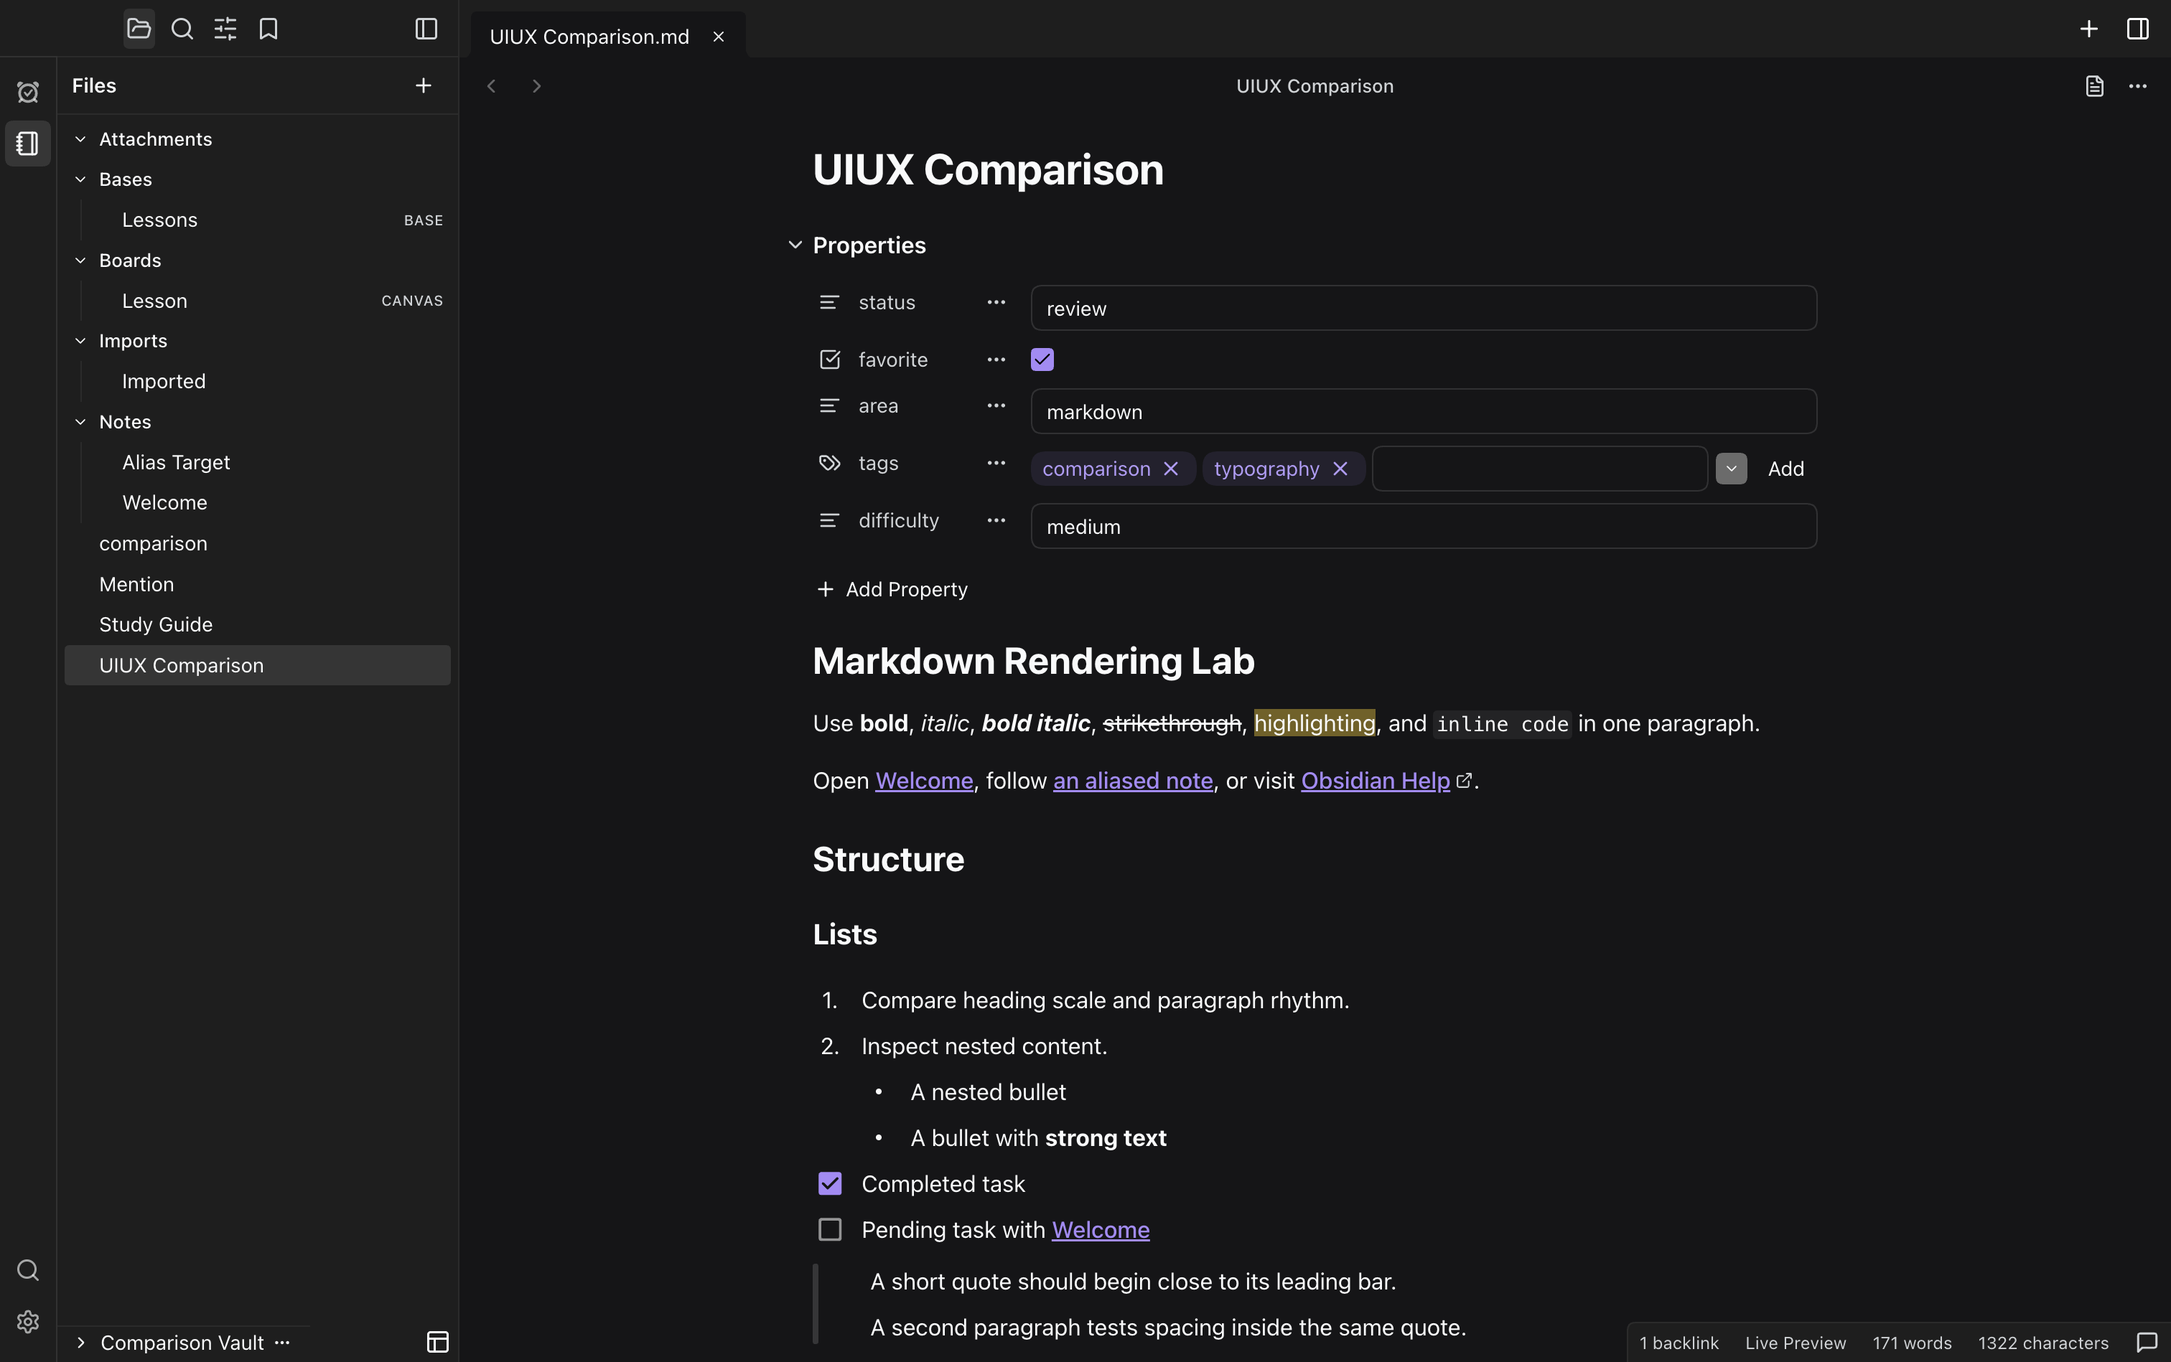
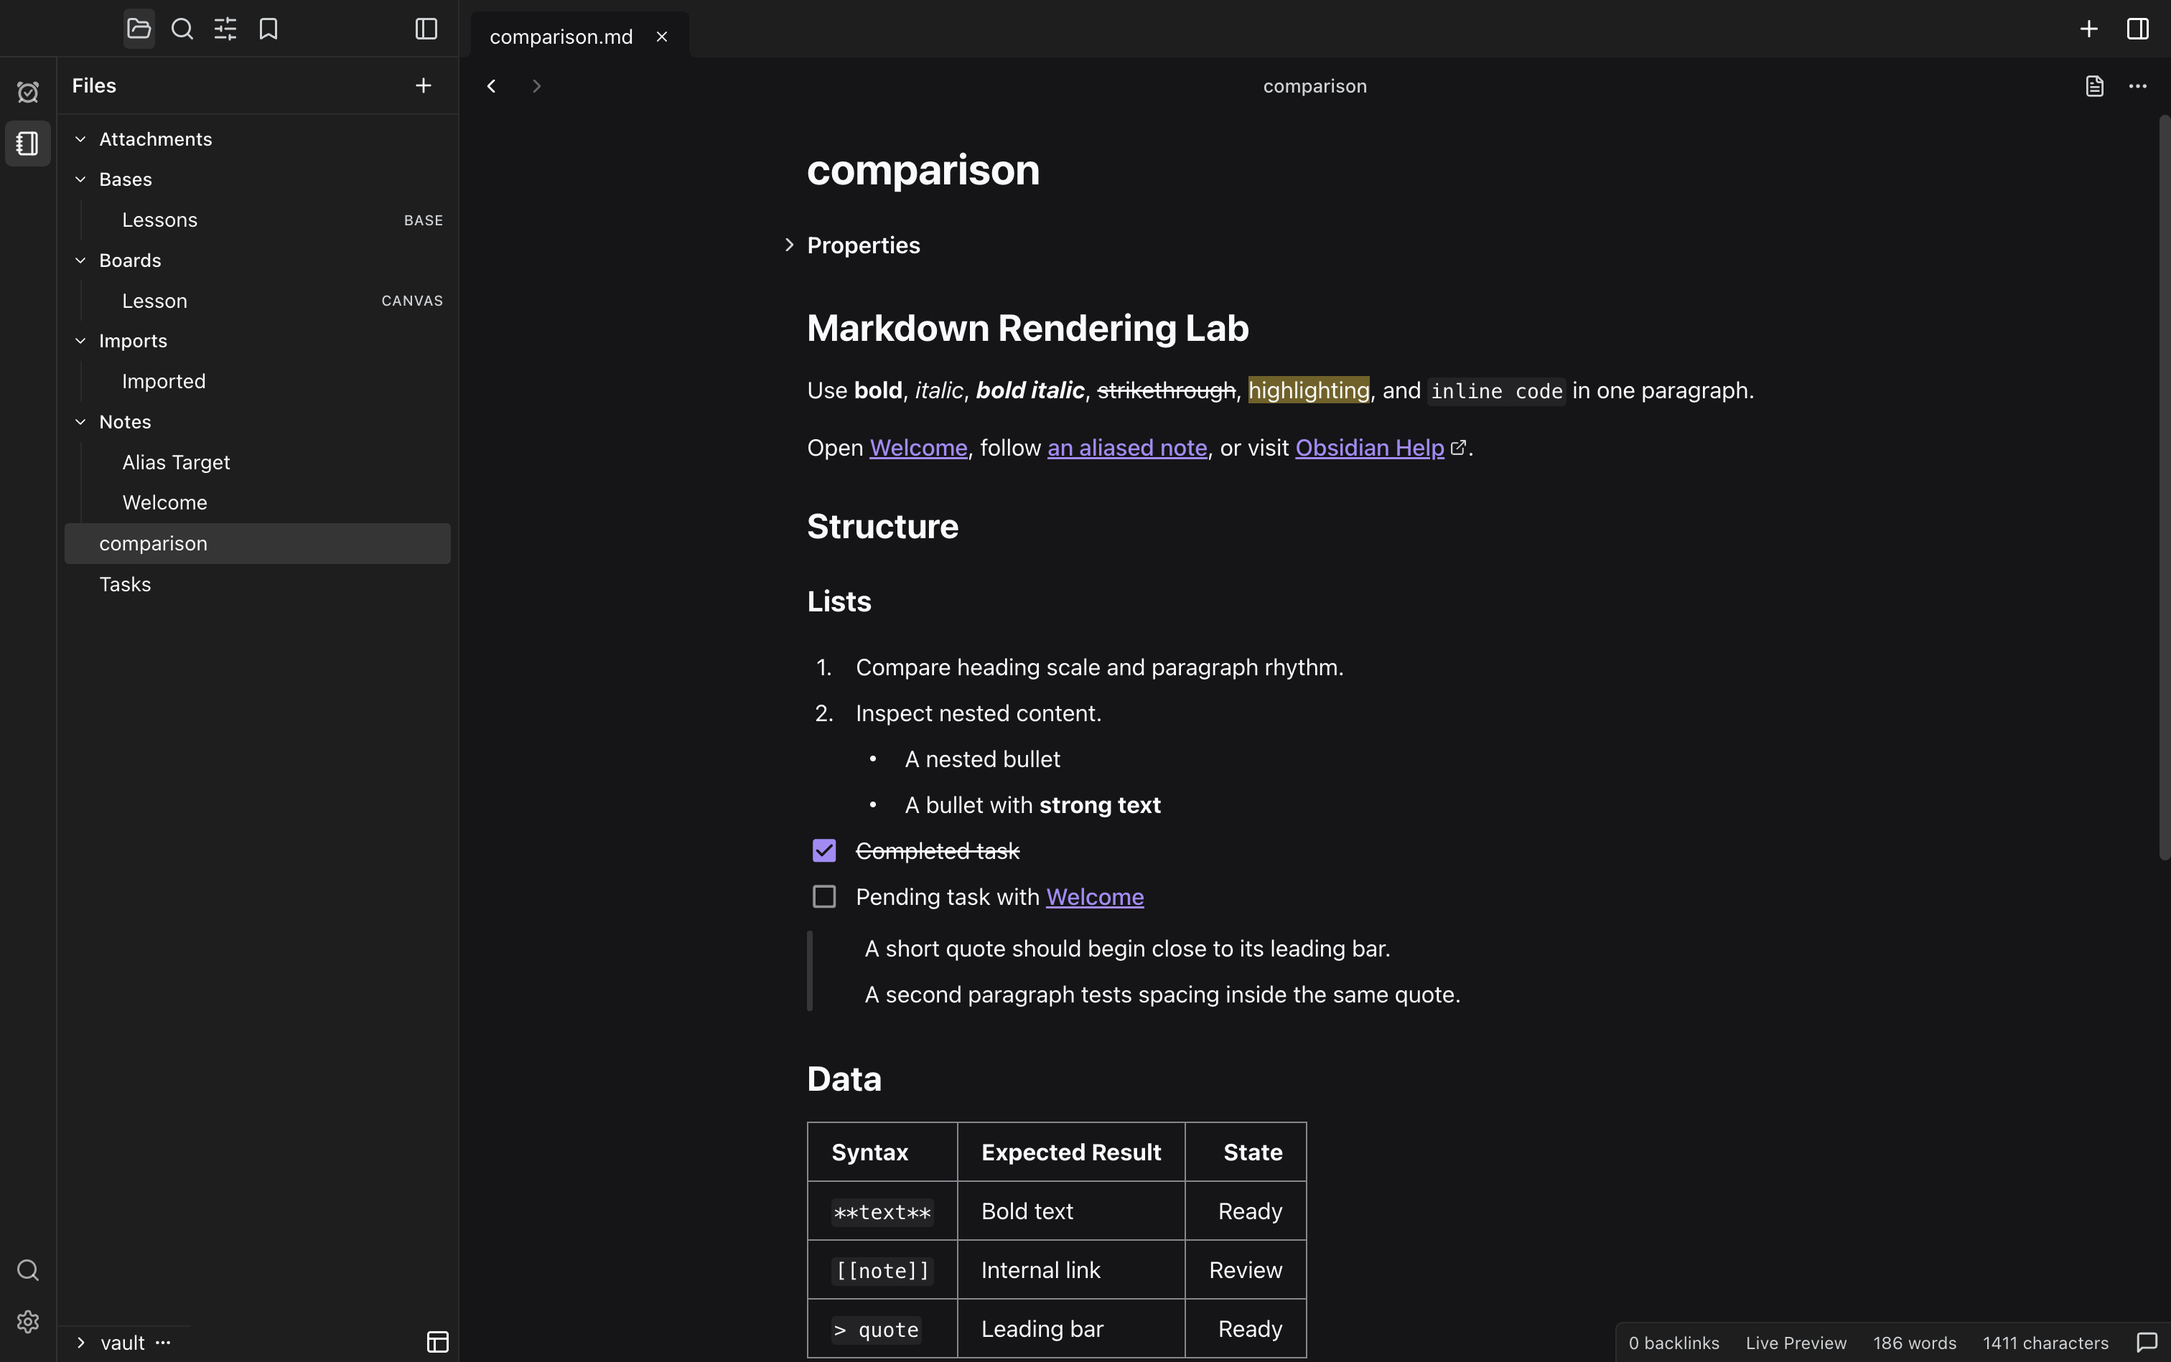
docs(tocktutor): refresh completed-task gallery screenshot

diff --git a/.agents/uiux/tocktutor/tocktutor.html b/.agents/uiux/tocktutor/tocktutor.html
@@ -154,9 +154,9 @@
     <div class="header-inner">
       <p class="eyebrow">Visual Design Audit · 61 Captures</p>
       <h1>TockTutor and Obsidian</h1>
-      <p class="intro">All 33 retained TockTutor screenshots were refreshed on October 3, 2026, using the existing source-built Desktop without rebuilding or changing app code. All 29 retained Obsidian references are unchanged; Obsidian was not launched. Eleven unreferenced screenshot files were removed. The supplemental Reader View shows its loaded article; Page View was captured only after loading finished. Earlier capture hashes and interaction checks remain historical evidence in the proof. Note-based surfaces use the shared <a href="comparison.md"><code>comparison.md</code></a> content. Older screenshots predate the filename change. The current TockTutor note menu shows 19 note-specific actions and the current filename; workspace and sidebar views remain accessible elsewhere; attachments use <code>Notes/Welcome.md</code>, and Base and Canvas use the same <a href="../../../plugins/tocktutor/parity/fixtures/vault/">parity fixture files</a>. Search uses <code>Markdown</code> in both apps. The assistant pair uses empty conversations beside the same note, with Claudian 2.3.0 in Obsidian. Product-specific controls and catalogs remain genuine, not fabricated matches. See the <a href="content-alignment.json">current capture proof and limitations</a>. Click an image for full resolution.</p>
+      <p class="intro">The earlier October 3, 2026 refresh replaced all 33 retained TockTutor screenshots using the existing source-built Desktop, without rebuilding or changing app code. The Live Preview image was then updated with the verified completed-task strikethrough capture. All 29 retained Obsidian references are unchanged; Obsidian was not launched. Eleven unreferenced screenshot files were removed. The supplemental Reader View shows its loaded article; Page View was captured only after loading finished. Earlier capture hashes and interaction checks remain historical evidence in the proof. Note-based surfaces use the shared <a href="comparison.md"><code>comparison.md</code></a> content. Older screenshots predate the filename change. The current TockTutor note menu shows 19 note-specific actions and the current filename; workspace and sidebar views remain accessible elsewhere; attachments use <code>Notes/Welcome.md</code>, and Base and Canvas use the same <a href="../../../plugins/tocktutor/parity/fixtures/vault/">parity fixture files</a>. Search uses <code>Markdown</code> in both apps. The assistant pair uses empty conversations beside the same note, with Claudian 2.3.0 in Obsidian. Product-specific controls and catalogs remain genuine, not fabricated matches. See the <a href="content-alignment.json">current capture proof and limitations</a>. Click an image for full resolution.</p>
       <p class="intro">September 29 additions: six source-built Desktop captures cover the image viewer, image resizing, Mermaid Reading and Live Preview, diagram editing, and imported property controls. These use separate <a href="migration-fixtures/Viewer.md">image-viewer</a>, <a href="migration-fixtures/Images.md">image-resizing</a>, <a href="migration-fixtures/Diagrams.md">diagram</a>, and <a href="migration-fixtures/Properties.md">property</a> fixtures; Image Viewer and Image Resizing pair the same Potala Palace photo; Diagram Editing and Imported Property Controls pair the same saved notes in TockTutor and installed Obsidian 1.13.7. The remaining two additions are TockTutor feature evidence, not matched Obsidian comparisons. See the <a href="../../../.beads/reports/2026-09-29-tocktutor-migration-review.md">migration review</a> and <a href="../../../.beads/reports/2026-09-30-tocktutor-image-alignment-and-diagram-reference.md">layout and diagram proof</a>, and <a href="../../../.beads/reports/2026-10-01-tocktutor-imported-properties-reference.md">imported property reference proof</a>. October 1 retake: Imported Property Controls now shows Properties beside the full-height note, with a fresh Obsidian comparison; the duplicate sidebar surface was removed. See the <a href="../../../.beads/reports/2026-10-01-tocktutor-imported-properties-retake.md">pair retake proof</a>.</p>
-      <p class="intro">Properties Editing Refresh: Surface 28 uses the shared <a href="comparison.md"><code>comparison.md</code></a> with nine properties and the unchanged Markdown body. Properties Layout Refresh: TockTutor has compact side-by-side rows and separate Properties and Assistant buttons in the titlebar. Titlebar Divider Refresh: both right-pane views now match the left sidebar's divider. Those earlier focused layout checks remain recorded separately; this screenshot-only refresh replaces all 33 retained TockTutor images and preserves all 29 Obsidian references. No Obsidian reinstall or update. Earlier note-facing pictures keep their original five-property version; this remains the canonical gallery.</p>
+      <p class="intro">Properties Editing Refresh: Surface 28 uses the shared <a href="comparison.md"><code>comparison.md</code></a> with nine properties and the unchanged Markdown body. Properties Layout Refresh: TockTutor has compact side-by-side rows and separate Properties and Assistant buttons in the titlebar. Titlebar Divider Refresh: both right-pane views now match the left sidebar's divider. Those earlier focused layout checks remain recorded separately; the earlier screenshot-only refresh replaced all 33 retained TockTutor images and preserved all 29 Obsidian references. No Obsidian reinstall or update. Earlier note-facing pictures keep their original five-property version; this remains the canonical gallery.</p>
       <div class="capture-standard">1512 × 949 CSS pixels · 2× scale · 3024 × 1898 output · Built-in Dark Theme · No Active Skin</div>
       <div class="legend" aria-label="Comparison legend">
         <span class="tt">TockTutor</span>
@@ -180,10 +180,11 @@
     </section>
 
     <section class="surface" id="live-preview">
-      <p class="section-number">Surface 02</p><h2>Live Preview</h2><p class="section-note">In-place editing with rendered Markdown context.</p>
+      <p class="section-number">Surface 02</p><h2>Live Preview</h2><p class="section-note">In-place editing with rendered Markdown context. The refreshed TockTutor view crosses out completed tasks and leaves pending tasks unchanged. It uses the nine-property <code>comparison.md</code> with Properties collapsed; the earlier Obsidian reference has the same Markdown body but its original filename and five properties.</p>
+      <p class="fixture-proof"><strong>Completed-Task Refresh:</strong> Reuses the verified source-built Desktop capture at 1512 × 949 CSS pixels and 2× scale, built-in dark theme, no active skin, and zero runtime errors. Only this TockTutor image changed; all other images and Obsidian references are unchanged. See the <a href="../../../.beads/reports/2026-10-03-tocktutor-completed-task/proof.json">completed-task verification</a> for checkbox, keyboard, nested-task, save/reopen, and eight-appearance checks. No app rebuild or recapture for this gallery update.</p>
       <div class="comparison">
-        <figure class="tocktutor"><figcaption><span class="caption-title">TockTutor · Live Preview</span><span class="badge">Current</span></figcaption><a class="screenshot-link" href="screenshots/tocktutor-editor-live-preview.png"><img src="screenshots/tocktutor-editor-live-preview.png" alt="TockTutor live preview editor"></a></figure>
-        <figure class="obsidian"><figcaption><span class="caption-title">Obsidian · Live Preview</span><span class="badge">Reference</span></figcaption><a class="screenshot-link" href="screenshots/obsidian-main-editor.png"><img src="screenshots/obsidian-main-editor.png" alt="Obsidian live preview editor"></a></figure>
+        <figure class="tocktutor"><figcaption><span class="caption-title">TockTutor · Live Preview</span><span class="badge">Current</span></figcaption><a class="screenshot-link" href="screenshots/tocktutor-editor-live-preview.png"><img src="screenshots/tocktutor-editor-live-preview.png" alt="TockTutor Live Preview with the completed task crossed out and the pending task unchanged"></a></figure>
+        <figure class="obsidian"><figcaption><span class="caption-title">Obsidian · Live Preview</span><span class="badge">Earlier Reference</span></figcaption><a class="screenshot-link" href="screenshots/obsidian-main-editor.png"><img src="screenshots/obsidian-main-editor.png" alt="Obsidian live preview editor"></a></figure>
       </div>
       <p class="section-note">Lower-note view scrolled to Data, Code and Notes, and Small Heading in both apps.</p>
       <div class="comparison">
@@ -415,7 +416,7 @@
       </div>
     </section>
 
-    <p class="footer">All screenshots use 1512 × 949 CSS pixels at 2× scale. The new Properties pair uses the expanded comparison.md in both apps; other screenshots retain their actual earlier content revisions. Image Viewer, Image Resizing, Diagram Editing, and Imported Property Controls have same-content installed Obsidian references; the remaining two September 29 additions stay TockTutor-only feature evidence. The gallery ends at Surface 28. Main Workspace, collapsed Backlinks, and standalone Reading Embed comparisons are omitted because Live Preview, expanded Backlinks, and Attachments and Embeds already cover them; their unused screenshot files were removed, while their earlier metadata remains in the historical capture proof. Closest Reference and Not Applicable labels do not imply missing product capability.</p>
+    <p class="footer">All screenshots use 1512 × 949 CSS pixels at 2× scale. The Properties pair and refreshed TockTutor Live Preview use the expanded comparison.md; other screenshots retain their actual earlier content revisions. Image Viewer, Image Resizing, Diagram Editing, and Imported Property Controls have same-content installed Obsidian references; the remaining two September 29 additions stay TockTutor-only feature evidence. The gallery ends at Surface 28. Main Workspace, collapsed Backlinks, and standalone Reading Embed comparisons are omitted because Live Preview, expanded Backlinks, and Attachments and Embeds already cover them; their unused screenshot files were removed, while their earlier metadata remains in the historical capture proof. Closest Reference and Not Applicable labels do not imply missing product capability.</p>
   </main>
 </body>
 </html>

diff --git a/tests/tocktutor-gallery.test.ts b/tests/tocktutor-gallery.test.ts
@@ -42,7 +42,7 @@ test('refreshes every retained TockTutor image without changing Obsidian and rem
   for (const name of refresh.publicationAllowlist) {
     const capture = proof.captures[name]
     assert.equal(capture.captureScope, 'real-desktop', name)
-    assert.equal(capture.refreshId, refresh.id, name)
+    assert.equal(capture.refreshId, proof.completedTaskRefresh?.publicationAllowlist.includes(name) ? proof.completedTaskRefresh.id : refresh.id, name)
     assert.ok(Date.parse(capture.capturedAt) >= Date.parse(refresh.startedAt), name)
     assert.deepEqual(capture.geometry, { width: 1512, height: 949, deviceScaleFactor: 2 }, name)
     assert.equal(capture.theme, 'dark', name)
@@ -70,6 +70,34 @@ test('refreshes every retained TockTutor image without changing Obsidian and rem
   assert.equal(proof.readerViewRefresh.status, 'verified-historical')
   assert.ok(refresh.cleanup.length > 0)
   assert.ok(refresh.cleanup.every((run: { stopped: boolean; remaining: number[] }) => run.stopped && run.remaining.length === 0))
+})
+
+test('shows the verified completed-task capture with an honestly labeled earlier reference', () => {
+  const name = 'tocktutor-editor-live-preview.png'
+  const verified = JSON.parse(readFileSync(resolve('.beads/reports/2026-10-03-tocktutor-completed-task/proof.json'), 'utf8'))
+  assert.equal(sha256(readFileSync(resolve(root, 'screenshots', name))), verified.screenshot.sha256)
+  const refresh = proof.completedTaskRefresh
+  assert.equal(refresh.status, 'verified-current')
+  assert.deepEqual(refresh.publicationAllowlist, [name])
+  assert.equal(refresh.unrelatedExistingCapturesUnchanged, 61)
+  assert.equal(refresh.reusesVerifiedCapture, true)
+  assert.equal(refresh.applicationLaunchedForGalleryUpdate, false)
+  assert.equal(refresh.galleryVerification.bothImagesDecoded, true)
+  assert.deepEqual(refresh.galleryVerification.geometry, [1512, 949, 2])
+  assert.deepEqual(refresh.galleryVerification.runtimeErrors, [])
+  assert.equal(sha256(readFileSync(resolve(refresh.galleryVerification.screenshot))), refresh.galleryVerification.screenshotSha256)
+  for (const run of Object.values(refresh.galleryCleanup) as { stopped: boolean; remaining: number[] }[]) {
+    assert.equal(run.stopped, true)
+    assert.deepEqual(run.remaining, [])
+  }
+  assert.equal(proof.captures[name].contentSha256, verified.comparisonFixture.sha256)
+  assert.equal(proof.captures[name].visibleState.completedTask.decoration, 'line-through')
+  assert.equal(proof.captures[name].visibleState.pendingTask.decoration, 'none')
+  assert.notEqual(refresh.previousCapture.sha256, verified.screenshot.sha256)
+  assert.equal(sha256(readFileSync(resolve(root, 'screenshots/obsidian-main-editor.png'))), proof.tocktutorGalleryRefresh.preservedReferenceHashes['obsidian-main-editor.png'])
+  const section = /<section class="surface" id="live-preview">([\s\S]*?)<\/section>/u.exec(html)![1]!
+  assert.match(section, /completed tasks[\s\S]*pending tasks/u)
+  assert.match(section, /Obsidian · Live Preview<\/span><span class="badge">Earlier Reference/u)
 })
 
 test('accounts for every gallery and supplemental capture without stale links', () => {
@@ -770,6 +798,6 @@ test('binds shared Markdown and structured documents to the captured content', (
   assert.equal(proof.graphAlignment.obsidianSettings.globalSearch, '-file:Lessons.base')
   assert.ok(proof.pairs.length >= 23)
   for (const pair of proof.pairs) {
-    if (['comparison.md', 'UIUX Comparison.md'].includes(pair.tocktutor.path)) assert.equal(pair.tocktutor.contentSha256, pair.surface === 'imported-properties' ? sharedHash : historicalHash, pair.surface)
+    if (['comparison.md', 'UIUX Comparison.md'].includes(pair.tocktutor.path)) assert.equal(pair.tocktutor.contentSha256, ['imported-properties', 'live-preview'].includes(pair.surface) ? sharedHash : historicalHash, pair.surface)
   }
 })

diff --git a/tests/tocktutor-content-alignment.test.ts b/tests/tocktutor-content-alignment.test.ts
@@ -39,6 +39,16 @@ test('compares matching content and includes the installed Claudian assistant', 
       assert.equal(left.visibleState.loading, false)
       assert.equal(pair.tocktutor.mode, pair.obsidian.mode)
       assert.deepEqual(right, proof.tocktutorGalleryRefresh.previousProof.captures[pair.obsidian.screenshot])
+    } else if (pair.surface === 'live-preview') {
+      assert.equal(pair.referenceStatus, 'historical-frontmatter-and-filename')
+      assert.equal(pair.sameNoteBytes, false)
+      assert.equal(pair.sameMarkdownBody, true)
+      assert.equal(pair.tocktutor.path, 'comparison.md')
+      assert.equal(pair.obsidian.path, 'UIUX Comparison.md')
+      assert.equal(left.contentSha256, proof.comparisonNoteRevision.current.contentSha256)
+      assert.equal(right.contentSha256, proof.comparisonNoteRevision.previous.contentSha256)
+      const source = readFileSync(`${root}/comparison.md`, 'utf8')
+      assert.equal(createHash('sha256').update(source.slice(source.indexOf('\n---\n') + 5)).digest('hex'), proof.comparisonNoteRevision.previous.bodySha256)
     } else if (pair.surface === 'note-actions') {
       assert.equal(pair.tocktutor.path, 'comparison.md')
       assert.equal(pair.obsidian.path, 'UIUX Comparison.md')
@@ -53,7 +63,7 @@ test('compares matching content and includes the installed Claudian assistant', 
     } else {
       assert.equal(pair.tocktutor.path, pair.obsidian.path, pair.surface)
     }
-    if (pair.surface !== 'web-viewer') assert.equal(pair.tocktutor.contentSha256, pair.obsidian.contentSha256, pair.surface)
+    if (!['web-viewer', 'live-preview'].includes(pair.surface)) assert.equal(pair.tocktutor.contentSha256, pair.obsidian.contentSha256, pair.surface)
     assert.equal(pair.tocktutor.mode, pair.obsidian.mode, pair.surface)
   }
 })
